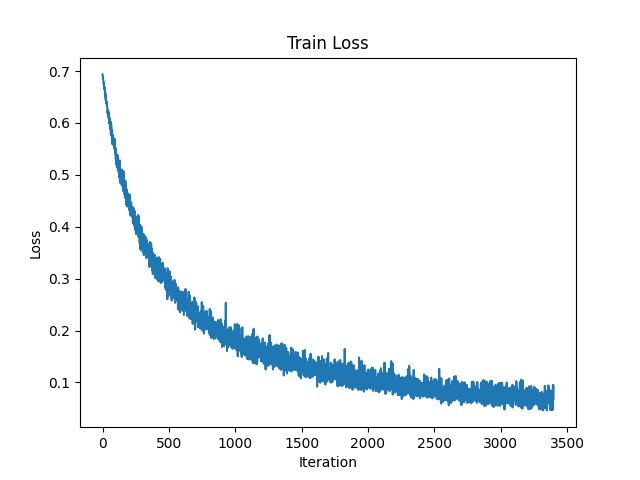
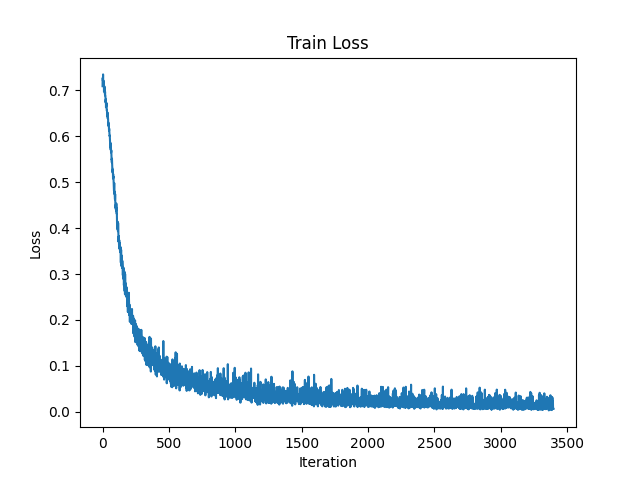
train fix + NN model + add command predict

diff --git a/ai_text_detector/infer.py b/ai_text_detector/infer.py
@@ -1,0 +1,90 @@
+from typing import List, Union
+
+import joblib
+import numpy as np
+import onnxruntime as ort
+
+
+class TextAIClassifier:
+    """
+    TF-IDF → ONNX-модель → предсказание 0/1
+    """
+
+    def __init__(self, cfg):
+        # Загружаем TF-IDF
+        tfidf_path = cfg.export.tfidf.output_path
+        self.vectorizer = joblib.load(tfidf_path)
+        print(f"TF-IDF загружен из: {tfidf_path}")
+
+        providers = ort.get_available_providers()
+        onnx_path = cfg.export.onnx.output_path
+
+        self.session = ort.InferenceSession(onnx_path, providers=providers)
+        print(
+            f"ONNX-модель загружена: {onnx_path} (providers: {self.session.get_providers()})"
+        )
+
+        # Проверяем имя входа (должно быть "input" по твоему export-коду)
+        self.input_name = self.session.get_inputs()[0].name
+        self.output_name = self.session.get_outputs()[0].name
+
+    def predict(self, texts: Union[str, List[str]]) -> np.ndarray:
+        """
+        Предсказывает класс для одного текста или списка текстов
+
+        Args:
+            texts: строка или список строк
+
+        Returns:
+            np.ndarray: массив 0/1 (классы)
+        """
+        # Приводим к списку
+        if isinstance(texts, str):
+            texts = [texts]
+
+        if not texts:
+            return np.array([])
+
+        # TF-IDF → sparse → dense float32
+        X = self.vectorizer.transform(texts).astype(np.float32)
+
+        # ONNX ожидает dense массив
+        if hasattr(X, "toarray"):
+            X = X.toarray()
+
+        # Инференс
+        outputs = self.session.run([self.output_name], {self.input_name: X})[0]
+
+        probs = 1 / (1 + np.exp(-outputs))  # sigmoid
+        preds = (probs >= 0.5).astype(np.int64).flatten()
+        return preds
+
+    def predict_proba(self, texts: Union[str, List[str]]) -> np.ndarray:
+        """
+        Предсказывает вероятности для одного текста или списка текстов
+
+        Args:
+            texts: строка или список строк
+
+        Returns:
+            np.ndarray: массив 0/1 (классы)
+        """
+        # Приводим к списку
+        if isinstance(texts, str):
+            texts = [texts]
+
+        if not texts:
+            return np.array([])
+
+        # TF-IDF → sparse → dense float32
+        X = self.vectorizer.transform(texts).astype(np.float32)
+
+        # ONNX ожидает dense массив
+        if hasattr(X, "toarray"):
+            X = X.toarray()
+
+        # Инференс
+        outputs = self.session.run([self.output_name], {self.input_name: X})[0]
+
+        probs = 1 / (1 + np.exp(-outputs))  # sigmoid)
+        return probs

diff --git a/ai_text_detector/train.py b/ai_text_detector/train.py
@@ -7,7 +7,7 @@ import pandas as pd
 import pytorch_lightning as pl
 import torch
 from ai_text_detector.gdrive import download_data_from_gdrive
-from ai_text_detector.model import TfidfDataModule, TfidfLogReg
+from ai_text_detector.model import BinaryClassNN, TfidfDataModule
 from ai_text_detector.plots import plot_training_curves
 from pytorch_lightning.loggers import MLFlowLogger
 from sklearn.feature_extraction.text import TfidfVectorizer
@@ -27,6 +27,8 @@ def train(cfg):
     # ======================
     git_commit = subprocess.check_output(["git", "rev-parse", "HEAD"]).decode().strip()
     exp.log_param(run_id, "git_commit", git_commit)
+
+    exp.log_param(run_id, "cfg", cfg)
 
     # ======================
     # LOAD DATA
@@ -59,14 +61,14 @@ def train(cfg):
 
     # сохраняем tf-idf (tf-idx)
     Path("models").mkdir(exist_ok=True)
-    joblib.dump(vectorizer, "models/tfidf.joblib")
+    joblib.dump(vectorizer, cfg.export.tfidf.output_path)
 
     # ======================
     # DATAMODULE + MODEL
     # ======================
     dm = TfidfDataModule(X_train, y_train, X_val, y_val, cfg)
 
-    model = TfidfLogReg(
+    model = BinaryClassNN(
         input_dim=X_train.shape[1],
         cfg=cfg,
     )
@@ -75,7 +77,7 @@ def train(cfg):
         max_epochs=cfg.training.epochs,
         accelerator="gpu" if torch.cuda.is_available() else "cpu",
         devices=1,
-        log_every_n_steps=50,
+        log_every_n_steps=cfg.logging.log_every_n_steps,
         logger=mlf_logger,
     )
 
@@ -90,7 +92,7 @@ def train(cfg):
     # ======================
     # ONNX
     # ======================
-    onnx_path = Path("models/onnx/model.onnx")
+    onnx_path = Path(cfg.export.onnx.output_path)
     onnx_path.parent.mkdir(parents=True, exist_ok=True)
 
     model.eval()

diff --git a/ai_text_detector/model.py b/ai_text_detector/model.py
@@ -50,12 +50,17 @@ class TfidfDataModule(pl.LightningDataModule):
         )
 
 
-class TfidfLogReg(pl.LightningModule):
+class BinaryClassNN(pl.LightningModule):
     def __init__(self, input_dim, cfg):
         super().__init__()
         self.save_hyperparameters(ignore=["cfg"])
 
-        self.linear = nn.Linear(input_dim, 1)
+        self.net = nn.Sequential(
+            nn.Linear(input_dim, cfg.training.hidden_dim),
+            nn.ReLU(),
+            nn.Dropout(cfg.training.dropout),
+            nn.Linear(cfg.training.hidden_dim, 1),
+        )
         self.criterion = nn.BCEWithLogitsLoss()
 
         self.val_acc = BinaryAccuracy()
@@ -73,7 +78,7 @@ class TfidfLogReg(pl.LightningModule):
         }
 
     def forward(self, x):
-        return self.linear(x).squeeze(1)
+        return self.net(x).squeeze(1)
 
     def training_step(self, batch, batch_idx):
         x, y = batch

diff --git a/commands.py b/commands.py
@@ -1,6 +1,7 @@
 import fire
 from ai_text_detector.config import load_config
 from ai_text_detector.gdrive import download_data_from_gdrive
+from ai_text_detector.infer import TextAIClassifier
 from ai_text_detector.train import train
 
 
@@ -22,6 +23,12 @@ class Commands:
         """
         cfg = load_config(overrides)
         download_data_from_gdrive(cfg)
+
+    def predict(self, overrides=None):
+        classifier = TextAIClassifier(load_config())
+        texts = overrides
+        predictions = classifier.predict(texts)
+        return predictions
 
 
 if __name__ == "__main__":

diff --git a/README.md b/README.md
@@ -11,12 +11,6 @@
 
 Выходные данные: 0 или 1 (бинарная классификация)
 
-## Формат входных и выходных данных
-
-Входные данные: текст произвольной длины
-
-Выходные данные: 0 или 1 (бинарная классификация)
-
 ## Валидация и тест
 
 Я поделил данные на трейн, валидацию и тест (их вполне достаточно для такой
@@ -96,3 +90,12 @@ python commands.py train
 Модель автоматически сохраняется в onnx формате после обучения.
 
 ## Infer
+
+Вы можете проверить текст, используя сохраненную модель, используя следующую
+команду.
+
+(Учитывайте, что модель обучена на английском языке)
+
+```
+python commands.py predict "your text here"
+```
